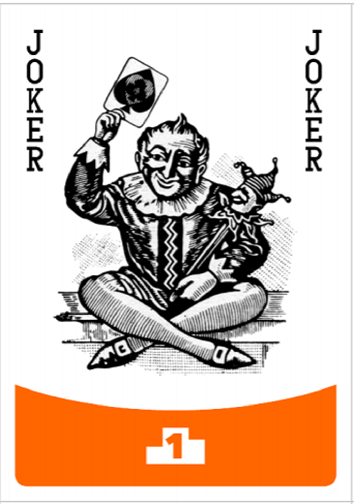
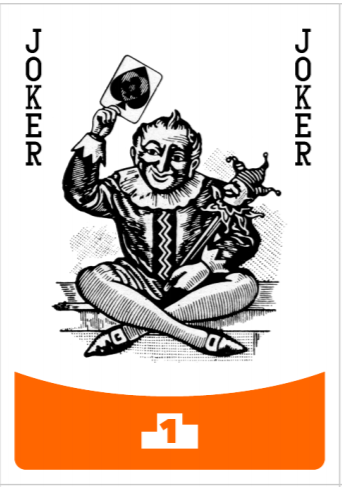
Add files via upload

diff --git a/src/com/jest/Controller/ViewController.java b/src/com/jest/Controller/ViewController.java
@@ -1,5 +1,6 @@
 package com.jest.Controller;
 import com.jest.carte.Carte;
+import com.jest.joueur.Joueur;
 import com.jest.models.CardModel;
 import com.jest.models.JoueurBref;
 import com.jest.views.BackgroundView;
@@ -16,7 +17,7 @@ import java.util.LinkedList;
 public class ViewController {
     private JFrame frame;
 //    private ViewManager views;
-    private JLayeredPane layeredPane;
+    private static JLayeredPane layeredPane;
     private BackgroundView bgView;
     private LinkedList<CardModel> cdModels;
     private StartRequireView startRequireView;
@@ -26,6 +27,10 @@ public class ViewController {
     private CardModel cardRef;
     public static final int WIDTH = 1400;
     public static final int HEIGHT = 800;
+    private static int ref_x;
+    private static int ref_y;
+    private static int ref_h;
+    private static int ref_w;
 
     private static ViewController viewController = null;
 
@@ -83,17 +88,17 @@ public class ViewController {
         choixView.initView();
         finDeJeuView.initData();
         finDeJeuView.initNext();
-        cardRef.setVisible(false);
+//        cardRef.setVisible(false);
     }
 
 
     private void initStartRequireView()
     {
         layeredPane.add(bgView,0,0);
-        cardRef = new CardModel((new ImageIcon("src/images/cardRef.jpg")).getImage());
+        cardRef = new CardModel((new ImageIcon("src/images/cardRef.png")).getImage());
         cardRef.setPosition(0,0);
         cardRef.setVisible(false);
-        layeredPane.add(cardRef,1,5);
+        layeredPane.add(cardRef,10,5);
 
 
         btn_start = new JButton("start");
@@ -123,8 +128,7 @@ public class ViewController {
                 e.printStackTrace();
             }
         }
-//        cardRef.setPosition(WIDTH/2 - cardRef.getW()/2,HEIGHT/2 - cardRef.getH()/2 - 150);
-//        cardRef.setVisible(true);
+
     }
 
     private void initChoixView()
@@ -144,6 +148,13 @@ public class ViewController {
                 e.printStackTrace();
             }
         }
+        cardRef.setPosition(WIDTH/2 - cardRef.getW()/2,HEIGHT/2 - cardRef.getH()/2 - 150);
+        cardRef.setVisible(true);
+        ref_x = cardRef.getX();
+        ref_y = cardRef.getY();
+        ref_w = cardRef.getW();
+        ref_h = cardRef.getH();
+//        cardRef.setVisible(false);
     }
 
     public ArrayList<JoueurBref> getJoueurChoix()
@@ -175,6 +186,58 @@ public class ViewController {
             }
         }
         initTous();
+    }
+
+
+    public static void afficherTrophie(ArrayList<Carte> trophie)
+    {
+        int intervalle = 10;
+        int x = ref_x-ref_w-intervalle;
+        int index = 0;
+        for (Carte carte : trophie)
+        {
+            CardModel cardModel = new CardModel(carte,x,ref_y);
+            layeredPane.add(cardModel,10,index++);
+            x = ref_x + ref_w + 10;
+        }
+    }
+
+
+    public static void afficherCarteDeJoueur(Joueur joueur)
+    {
+        System.out.println("afficher les cartes");
+        int init_x = 0;
+        int init_y = 0;
+        int index = 20;
+        if (joueur.getId() == 1)
+        {
+            init_x = 300;
+            init_y = 600;
+        }
+        else if (joueur.getId() == 2)
+        {
+            init_x = 50;
+            init_y = 300;
+        }
+        else if (joueur.getId() == 3)
+        {
+            init_x = 900;
+            init_y = 400;
+        }
+        else if (joueur.getId() == 4)
+        {
+            init_x = 300;
+            init_y = 50;
+        }
+        for (Carte carte : joueur.getJest())
+        {
+            CardModel cardModel = new CardModel(carte,init_x,init_y);
+            init_x += 100;
+            cardModel.setVisible(true);
+            layeredPane.add(cardModel,10,index);
+            index++;
+        }
+
     }
 
 

diff --git a/src/com/jest/carte/CarteTypes.java b/src/com/jest/carte/CarteTypes.java
@@ -6,32 +6,33 @@ public enum CarteTypes {
     //
 
 
-    JOKER(0,0,0,"BEST_JEST"),
-    HEART1(1,1,1,"JOKER"),HEART4(2,1,4,"JOKER"),
-    HEART3(3,1,3,"JOKER"),HEART2(4,1,2,"JOKER"),
-    SPADE1(5,4,1,"HIGHESTCLUB"),SPADE4(6,4,4,"LOWESTCLUB"),
-    SPADE3(7,4,3,"2"),SPADE2(8,4,2,"3"),
-    CLUB1(9,3,1,"HIGHESTSPADE"),CLUB4(10,3,4,"LOWESTSPADE"),
-    CLUB3(11,3,3,"HIGHESTSPADE"),CLUB2(12,3,2,"LOWESTSPADE"),
-    DIAM1(13,2,1,"4"),DIAM4(14,2,4,"BEST_JEST_NO_JOKER"),
-    DIAM3(15,2,3,"LOWESTDIAM"),DIAM2(16,2,2,"HIGHESTDIAM")
-//    ,REFER(17,"REFER",null)
+    JOKER(0,0,0,"BEST_JEST","src/images/Joker.PNG"),
+    HEART1(1,1,1,"JOKER","src/images/5Co.PNG"),HEART4(2,1,4,"JOKER","src/images/4Co.PNG"),
+    HEART3(3,1,3,"JOKER","src/images/3Co.PNG"),HEART2(4,1,2,"JOKER","src/images/2Co.PNG"),
+    SPADE1(5,4,1,"HIGHESTCLUB","src/images/5P.PNG"),SPADE4(6,4,4,"LOWESTCLUB","src/images/4P.PNG"),
+    SPADE3(7,4,3,"2","src/images/3P.PNG"),SPADE2(8,4,2,"3","src/images/2P.PNG"),
+    CLUB1(9,3,1,"HIGHESTSPADE","src/images/5T.PNG"),CLUB4(10,3,4,"LOWESTSPADE","src/images/4T.PNG"),
+    CLUB3(11,3,3,"HIGHESTSPADE","src/images/3T.PNG"),CLUB2(12,3,2,"LOWESTSPADE", "src/images/2T.PNG"),
+    DIAM1(13,2,1,"4","src/images/5C.PNG"),DIAM4(14,2,4,"BEST_JEST_NO_JOKER","src/images/4C.PNG"),
+    DIAM3(15,2,3,"LOWESTDIAM","src/images/3C.PNG"),DIAM2(16,2,2,"HIGHESTDIAM","src/images/2C.PNG")//    ,REFER(17,"REFER",null)
     ;
     private Integer id;
     private int couleur;
     private String trophie;
     private Integer valeur;
+    private String imageLocation;
 //    public static final String HEART = "HEART";
 //    public static final String CLUB = "CLUB";
 //    public static final String DIAM = "DIAM";
 //    public static final String SPADE = "SPADE";
 //    public static final String JOKE = "JOKER";
 
-    CarteTypes(Integer id, int couleur,Integer valeur, String trophie) {
+    CarteTypes(Integer id, int couleur,Integer valeur, String trophie, String location) {
         this.id = id;
         this.couleur = couleur;
         this.trophie = trophie;
         this.valeur = valeur;
+        this.imageLocation = location;
     }
 
     public Integer getId() {
@@ -48,5 +49,9 @@ public enum CarteTypes {
 
     public Integer getValeur() {
         return valeur;
+    }
+
+    public String getImageLocation() {
+        return imageLocation;
     }
 }

diff --git a/src/com/jest/Controller/Controller.java b/src/com/jest/Controller/Controller.java
@@ -18,7 +18,8 @@ public class Controller {
     private ArrayList<Carte> trophies;
     private int noteMax = 0;
     private static int foisGagne[] = new int[4];
-    private Object[][] resultat = new Object[4][2];
+    private Object[][] resultat;
+//    private Object[][] resultat = new Object[4][2];
 
     private JoueurVisitor visitor = new JoueurVisitor();
     private Comparateur comparateur = new Comparateur();
@@ -58,7 +59,7 @@ public class Controller {
     {
         for(CarteTypes c : CarteTypes.values())
         {
-            cartes.add(new Carte(c.getId(),c.getCouleur(),c.getValeur(),c.getTrophie()));
+            cartes.add(new Carte(c.getId(),c.getCouleur(),c.getValeur(),c.getTrophie(),c.getImageLocation()));
         }
     }
 
@@ -103,6 +104,8 @@ public class Controller {
             ctmp.add(tirerCarteDessus(joueur.getId()));
             ctmp.add(tirerCarteDessus(joueur.getId()));
             joueur.setCarteOffer(ctmp);
+            ////////////////////////////////////
+//            ViewController.afficherCarteDeJoueur(joueur);
         }
     }
 
@@ -235,11 +238,13 @@ public class Controller {
         for (Joueur joueur:joueurs)
         {
             System.out.println(joueur.getName()+" "+joueur.getGagne());
+            ViewController.afficherCarteDeJoueur(joueur);
         }
     }
 
     public Object[][] getResultat()
     {
+        resultat = new Object[joueurs.size()][2];
         for (int i=0;i<joueurs.size();i++)
         {
             for (int j=1;j<joueurs.size();j++)

diff --git a/src/com/jest/views/ChoixView.java b/src/com/jest/views/ChoixView.java
@@ -4,9 +4,6 @@ import com.jest.Controller.ViewController;
 import com.jest.models.JoueurBref;
 
 import javax.swing.*;
-import javax.swing.event.DocumentEvent;
-import javax.swing.event.DocumentListener;
-import javax.swing.text.View;
 import java.awt.*;
 import java.awt.event.*;
 import java.util.ArrayList;
@@ -66,7 +63,7 @@ public class ChoixView extends JPanel {
                     joueurs.add(new JoueurBref(0,"joueurP"+nbJP,0));
                     nbJP++;
                     updateListePanel();
-                    System.out.println(joueurs.size());
+//                    System.out.println(joueurs.size());
 //                    listerJoueurs();
                 }
             }
@@ -81,7 +78,7 @@ public class ChoixView extends JPanel {
                     joueurs.add(new JoueurBref(1,"joueurV"+nbJV,1));
                     nbJV++;
                     updateListePanel();
-                    listerJoueurs();
+//                    listerJoueurs();
                 }
             }
         });
@@ -99,7 +96,7 @@ public class ChoixView extends JPanel {
                     }
                     joueurs.remove(joueurs.size() - 1);
                     updateListePanel();
-                    listerJoueurs();
+//                    listerJoueurs();
                 }
             }
         });

diff --git a/src/com/jest/visitor/JoueurVisitor.java b/src/com/jest/visitor/JoueurVisitor.java
@@ -20,6 +20,7 @@ public class JoueurVisitor implements Visitor {
         int nb_heart = 0;
         int nb_pas_ace = 0;
         int nb_ace = 0;
+        int ace_coleur = 0;
 
         int value_club = 0;
         int value_diam = 0;
@@ -50,8 +51,10 @@ public class JoueurVisitor implements Visitor {
                 nb_heart++;
             if (carte.getValeur() != 1)
                 nb_pas_ace++;
-            if (carte.getValeur() == 1)
+            if (carte.getValeur() == 1) {
                 nb_ace++;
+                ace_coleur = carte.getColeur();
+            }
             if (carte.getValeur() == 2)
                 nb_2++;
             if (carte.getValeur() == 3)
@@ -110,10 +113,16 @@ public class JoueurVisitor implements Visitor {
             }
         }
         // ACE
-        if (nb_pas_ace == 0)
+        if (nb_ace == 1)
         {
-            jest_valeur = 12;
-            face_valeur += 4 * nb_ace;
+            if (avecJoker && ace_coleur == 1 && nb_heart < 4)
+            {
+                jest_valeur -= 4;
+            }
+            if (ace_coleur == 2)
+                jest_valeur -= 4;
+            if (ace_coleur == 3 || ace_coleur == 4)
+                jest_valeur += 4;
         }
 
 

diff --git a/src/com/jest/Jest.java b/src/com/jest/Jest.java
@@ -8,9 +8,7 @@ import com.jest.models.JoueurBref;
 import com.jest.strategy.DonneeStrategy;
 import com.jest.strategy.RandomStrategy;
 import com.jest.strategy.Strategy;
-
 import java.util.ArrayList;
-import java.util.Scanner;
 
 public class Jest {
     public static void main(String[] args) throws Throwable {
@@ -43,12 +41,14 @@ public class Jest {
             if (nbJoueur == 2) {
                 trophie.add(controller.tirerCarteDessus(0));
                 trophie.add(controller.tirerCarteDessus(0));
+                ViewController.afficherTrophie(trophie);
 //
 //                controller.initJoueur("joueur1");
 //                controller.initJoueurVirtuel("jv1", strategy);
 //                controller.initJoueurVirtuel("jv2", strategy1);
             } else if (nbJoueur == 3) {
                 trophie.add(controller.tirerCarteDessus(0));
+                ViewController.afficherTrophie(trophie);
 //                controller.initJoueur("joueur1");
 //                controller.initJoueurVirtuel("jv1", strategy);
 //                controller.initJoueurVirtuel("jv2", strategy1);

diff --git a/src/com/jest/models/CardModel.java b/src/com/jest/models/CardModel.java
@@ -12,7 +12,7 @@ public class CardModel extends JPanel {
     private int y;
     private int w;
     private int h;
-    private static final int SCALE = 7;
+    private static final int SCALE = 4;
 
     public CardModel(Image image, Carte carte) {
         this.carte = carte;
@@ -21,7 +21,19 @@ public class CardModel extends JPanel {
         this.image = image;
         this.w = image.getWidth(null)/SCALE;
         this.h = image.getHeight(null)/SCALE;
+        setBounds(x,y,w,h);
     }
+
+    public CardModel(Carte carte,int x,int y) {
+        this.carte = carte;
+        this.x=x;
+        this.y=y;
+        this.image = new ImageIcon(carte.getImageLocation()).getImage();
+        this.w = image.getWidth(null)/SCALE;
+        this.h = image.getHeight(null)/SCALE;
+        setBounds(x,y,w,h);
+    }
+
 
     public CardModel(Image image) {
         this.x=0;

diff --git a/src/com/jest/carte/Carte.java b/src/com/jest/carte/Carte.java
@@ -9,12 +9,13 @@ public class Carte {
     //////
     private String imageLocation;
 
-    public Carte(Integer id, int carteType,Integer valeur,String trophie) {
+    public Carte(Integer id, int carteType,Integer valeur,String trophie, String imageLocation) {
         this.id = id;
         this.coleur = carteType;
         this.trophie = trophie;
         this.valeur = valeur;
         this.joueurId = 0;
+        this.imageLocation = imageLocation;
     }
 
     public Carte(CarteTypes carteTypes)
@@ -24,6 +25,7 @@ public class Carte {
         this.trophie = carteTypes.getTrophie();
         this.joueurId = 0;
         this.id = carteTypes.getId();
+        this.imageLocation = carteTypes.getImageLocation();
     }
 
     @Override
